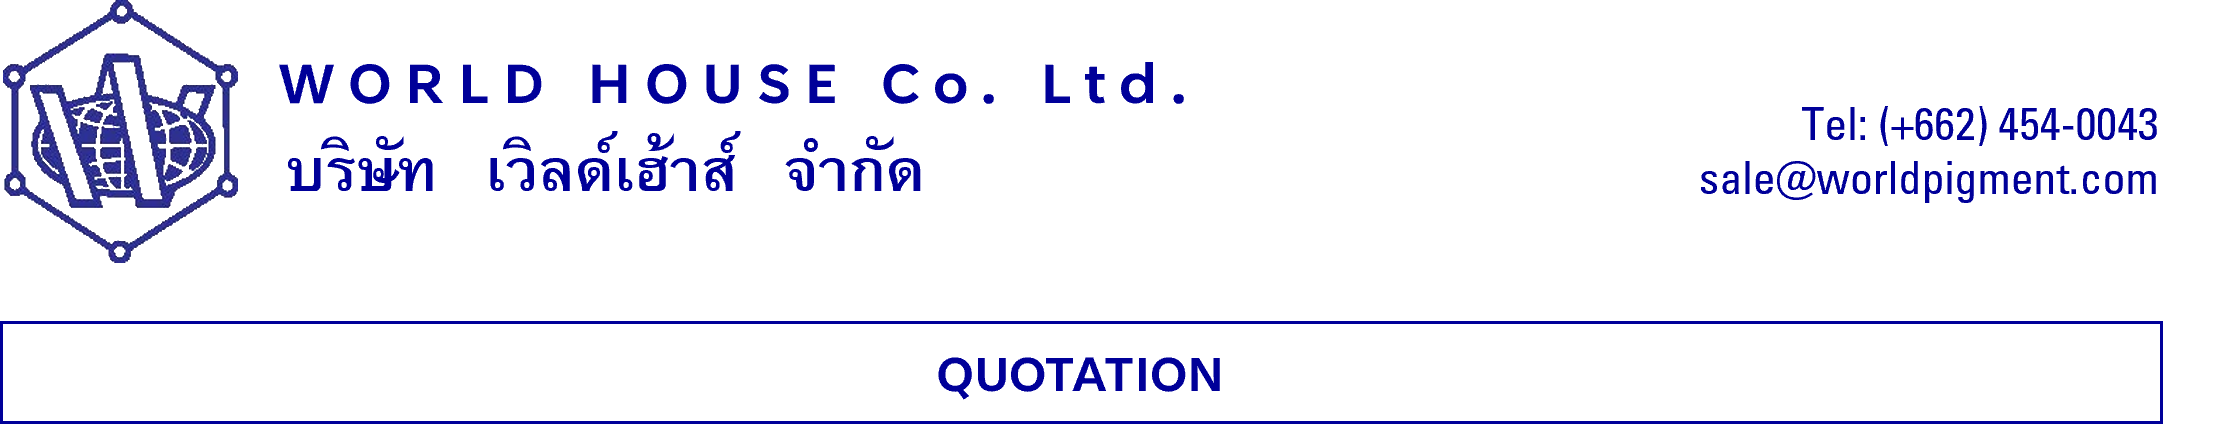
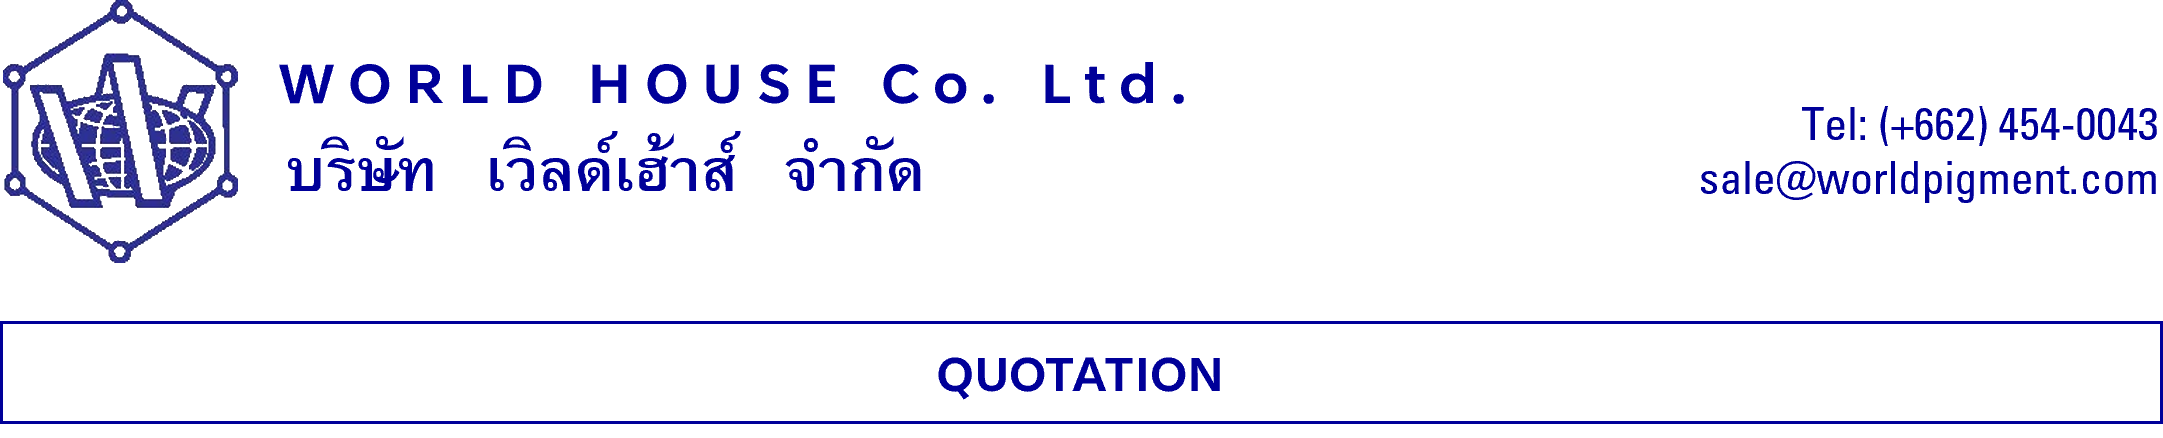
17/11/2569 1 ใบเสนอราคา แก้ pdf

diff --git a/resources/views/quotation/print.blade.php b/resources/views/quotation/print.blade.php
@@ -188,7 +188,9 @@
         .sign .closing { white-space: nowrap; }
         .fmt-tag { font-size: .75em; color: #888; }
 
-        @media print { .toolbar { display: none; } body { padding: 10px 24px; } }
+        /* 17/11/2569 ตามที่ผู้ใช้สั่ง "ระยะขอบซ้าย ขวา บน ล่าง ต้อง 0.5 นิ้ว" — ตอนพิมพ์ body ไม่มี padding (เดิม 10px 24px บวกเพิ่มจากขอบ @page)
+           ขอบที่เห็นจริงจึง = @page margin 0.5in ทั้ง 4 ด้าน · รูปหัวกระดาษกว้าง 100% = ชนขอบ 0.5in ซ้าย/ขวาพอดี */
+        @media print { .toolbar { display: none; } body { padding: 0; } }
 
         /* ── ส่วนท้ายชิดล่างของหน้ากระดาษ (19/10/2569 ตามที่ผู้ใช้สั่ง) ──
            .page สูงเท่าพื้นที่พิมพ์ของ A4 (297mm − ขอบ 10mm×2 − padding ของ body) แล้วดัน .page-bottom ลงล่างด้วย margin-top:auto
@@ -196,7 +198,7 @@
         /* 13/11/2569 ตามที่ผู้ใช้สั่ง — ขอบ 0.5 นิ้วทั้ง 4 ด้าน */
         @page { size: A4; margin: 0.5in; }
         @media print {
-            .page { display: flex; flex-direction: column; min-height: 264mm; }/* 13/11/2569: ขอบบน+ล่างรวม 25.4mm เหลือพื้นที่ 271.6mm — 270 → 264 กันล้นหน้า 2 */
+            .page { display: flex; flex-direction: column; min-height: 270mm; }/* พื้นที่พิมพ์สูง 297 − 25.4 = 271.6mm · 17/11/2569: body ไม่มี padding แล้ว 264 → 270 (เผื่อ 1.6mm กันล้นหน้า 2) ลายเซ็นจึงชิดขอบล่าง 0.5in */
             .page-bottom { margin-top: auto; }
         }
     </style>

diff --git a/CLAUDE.md b/CLAUDE.md
@@ -1020,6 +1020,7 @@ Auth เป็นแบบ session-based; middleware `loggedin` (`app/Http/Middl
 **ปุ่ม "คัดลอกเป็นใบใหม่" (16/10/2569 ตามที่ผู้ใช้สั่ง)** — ปุ่ม `ti-copy` ในแถวของ `quotation/table.blade.php` → `quotationCopy(qno)` = `quotationEdit(qno, true)` (โหลดผ่าน `/edit` ตัวเดิม เติมฟอร์มครบทุกช่อง) แล้ว `toCopyMode()` สลับเป็นโหมด `insert`: เลขที่ใหม่จาก `/next-qno` ตาม prefix หัวกระดาษของใบเก่า (แก้ได้) · วันที่เสนอราคา = วันนี้ · **ล้าง Revisedate / ValidFrom / Validto** · `qCreator = null` (ไม่ถามรหัสผ่าน ผู้สร้าง = คนที่กดบันทึก) · **ไม่แก้ฝั่ง server** — บันทึกผ่าน `insert()` ตามปกติ (กันเลขที่ซ้ำอยู่แล้ว) · ⚠ ยังไม่ได้กดในเบราว์เซอร์
 
 **รูปหัวกระดาษบนหน้าพิมพ์ (16/10/2569 ตามที่ผู้ใช้สั่ง)** — `quotation/print.blade.php` (ใช้ทั้งพิมพ์จริงและ print-preview) วางรูปกว้างเต็มหน้าบนสุดตาม `qmast.letterhead`: `WH` → `public/letter-head/WH QUOTATION.png` · `WPC` → `WPC QUOTATION.png` · `WPI` → `WPI QUOTATION.png` (ผู้ใช้เปลี่ยนรูปชุดใหม่ 19/10/2569 — รูปมีกรอบคำว่า "QUOTATION" ในตัว) · **ลบกล่องพื้นขาว/เส้นจางรอบโลโก้ออกจากไฟล์รูปแล้ว (19/10/2569 ตามที่ผู้ใช้สั่ง "ไม่อยากให้แสดงกรอบตรง logo")** — แก้ที่ไฟล์ PNG โดยตรง (พิกเซลขาว/เทาอ่อนในโซนโลโก้ → โปร่งใส RGB ขาว · ไม่แตะชื่อบริษัทและกรอบ QUOTATION) · วงกลมขาวด้านในโลโก้ WPC/WPI กลายเป็นโปร่งใสด้วย (บนกระดาษขาวเหมือนเดิม) · ต้นฉบับสำรองไว้ใน scratchpad ของ session (ไม่ได้เก็บในโปรเจกต์) · ⚠ ได้รูปชุดใหม่อีก กรอบจะกลับมา ต้องลบซ้ำ · **เพิ่มช่องไฟเหนือกรอบ QUOTATION 40px ทั้ง 3 รูป (26/10/2569 ตามที่ผู้ใช้สั่ง)** — แทรกแถวโปร่งใสในไฟล์ PNG (รูปสูงขึ้น 40px · ต้นฉบับสำรองใน scratchpad ของ session) ⇒ หัวกระดาษบนหน้าพิมพ์สูงขึ้นตาม · รูปกว้าง **90%** ของหน้า จัดกึ่งกลาง (map `$letterheadFiles` ใน blade, URL ผ่าน `asset()` + `rawurlencode` เพราะชื่อไฟล์มีช่องว่าง) · ค่าว่าง/ไม่รู้จัก = ไม่แสดงรูป · ⚠ เปลี่ยนชื่อไฟล์ต้องแก้ map ตาม · ⚠ ไฟล์เป็น RGBA พื้นโปร่งใส ~84-89% ที่มีสีดำซ่อนอยู่ข้างใต้ — พิมพ์/PDF บางเครื่องอาจขึ้นเป็นแถบดำ · **เลือกได้ว่าจะพิมพ์หัวกระดาษไหม** — กดพิมพ์ (ปุ่มในตาราง `quotationPrint` / ตัวอย่างพิมพ์ในฟอร์ม `quotationPrintPreview`) → `askLetterhead()` เด้ง Swal "พิมพ์พร้อมหัวกระดาษ / ไม่พิมพ์หัวกระดาษ / ยกเลิก" → ไม่พิมพ์ = ส่ง **`lh=0`** (query ของ `/print` · POST ของ `/print-preview`) → blade ตั้ง `$letterheadBlank` แล้วใส่ class `blank` = **ซ่อนรูปแต่เว้นที่ว่างสูงเท่าหัวกระดาษไว้** (`visibility: hidden` ไม่ใช่ `display: none`) ให้เอากระดาษที่มีหัวพิมพ์แล้วมาใส่เอง · ⚠ ต้องถามก่อนเพราะทั้ง 2 ปุ่มโหลดหน้าพิมพ์ใน iframe ซ่อนแล้วสั่งพิมพ์ทันที — **ผู้ใช้ไม่เคยเห็นแถบ `.toolbar` ของหน้าพิมพ์** (เคยใส่ checkbox ไว้ตรงนั้นแล้วมองไม่เห็น เอาออกแล้ว) · ข้อมูลจริง: WH 1,215 ใบ · WPI 2 · WPC 0
+- **ขอบพิมพ์ 0.5in จริงทั้ง 4 ด้าน + รูปหัวกระดาษชนขอบซ้าย/ขวา (17/11/2569 ตามที่ผู้ใช้สั่ง)** — `@media print` ตั้ง `body { padding: 0 }` (เดิม 10px 24px บวกเพิ่มจากขอบ @page) · `.page` min-height 264 → 270mm · ตัดพื้นว่างด้านขวาออกจากไฟล์ PNG ทั้ง 3 รูป (WH 67px · WPC 45px · WPI 36px) ให้ซ้าย/ขวาชนขอบเท่ากัน · ต้นฉบับสำรองใน scratchpad ของ session · ⚠ ได้รูปชุดใหม่ต้องตัดซ้ำ
 
 **ปรับฟอร์ม/หน้าพิมพ์ 16/10/2569 (ตามที่ผู้ใช้สั่ง):**
 - **เลขที่ใบเสนอราคา ยาวได้ 20 ตัว** (เดิม 10) — migration `2026_10_16_100000_widen_qno_on_quotation_tables` (**รันแล้ว**, idempotent) ขยาย `Qno` เป็น `varchar(20)` ทั้ง `qmast` / `qdetail` / `qdetail_ext` (MyISAM) + ช่อง `#q_Qno` `maxlength="20"`
